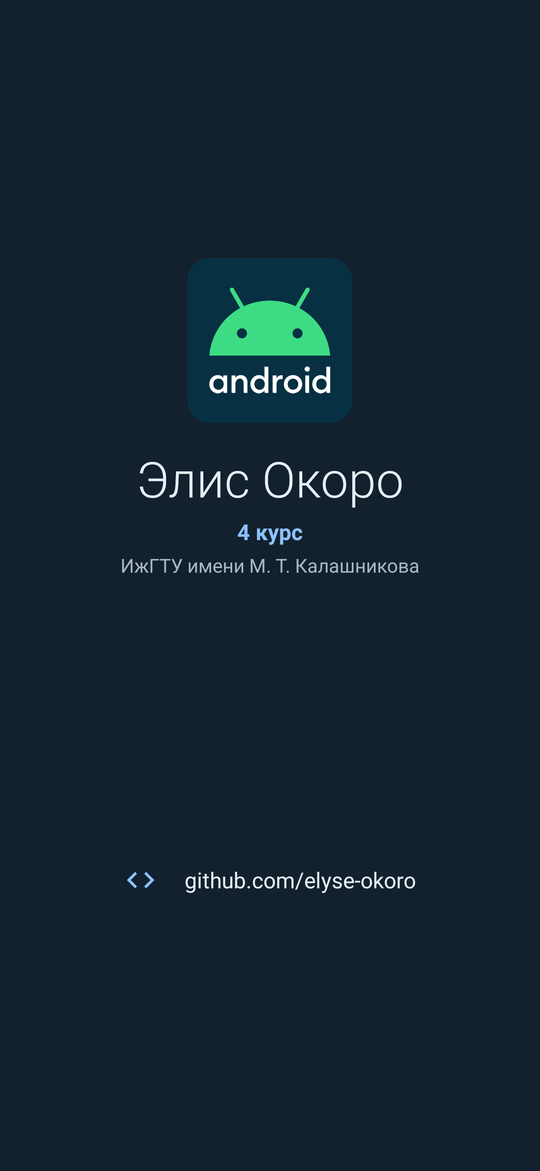
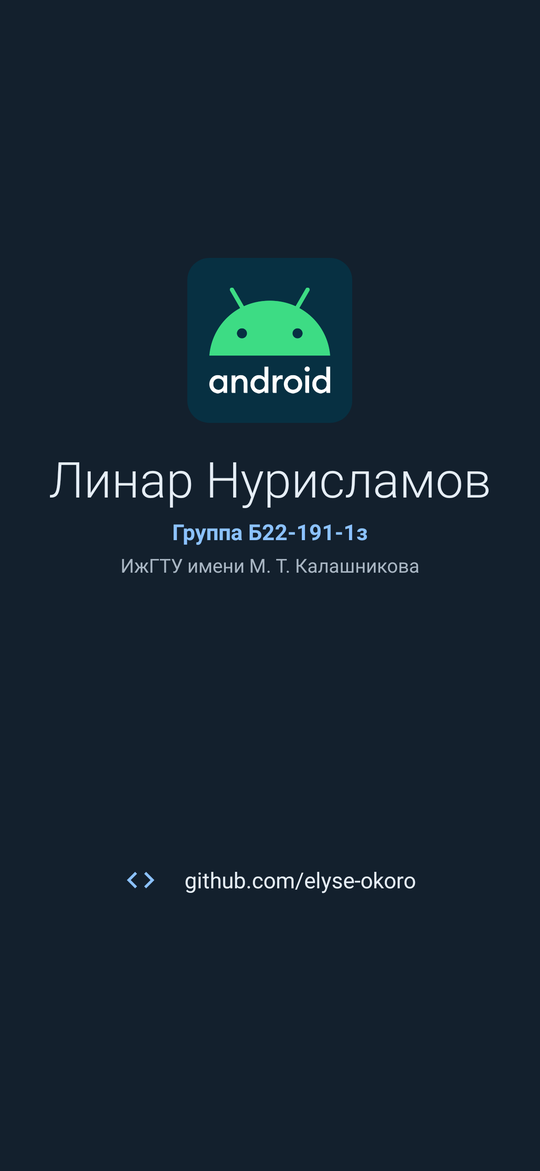
docs: снимки экрана с новыми данными
В README в описании визитки группа вместо курса. Снимки пересняты: телефон, английский интерфейс, тёмная тема, альбомная ориентация, планшет.

Changed region(s): [[0.0889, 0.3689, 0.9185, 0.4611]]

diff --git a/README.md b/README.md
@@ -4,7 +4,7 @@
 
 ## Что на экране
 
-- Логотип Android, имя и фамилия, курс и вуз.
+- Логотип Android, имя и фамилия, группа и вуз.
 - Контакт — профиль на GitHub. По нажатию он открывается в браузере неявным интентом `ACTION_VIEW`; если открыть нечем, появляется сообщение.
 
 ## Как сделано
